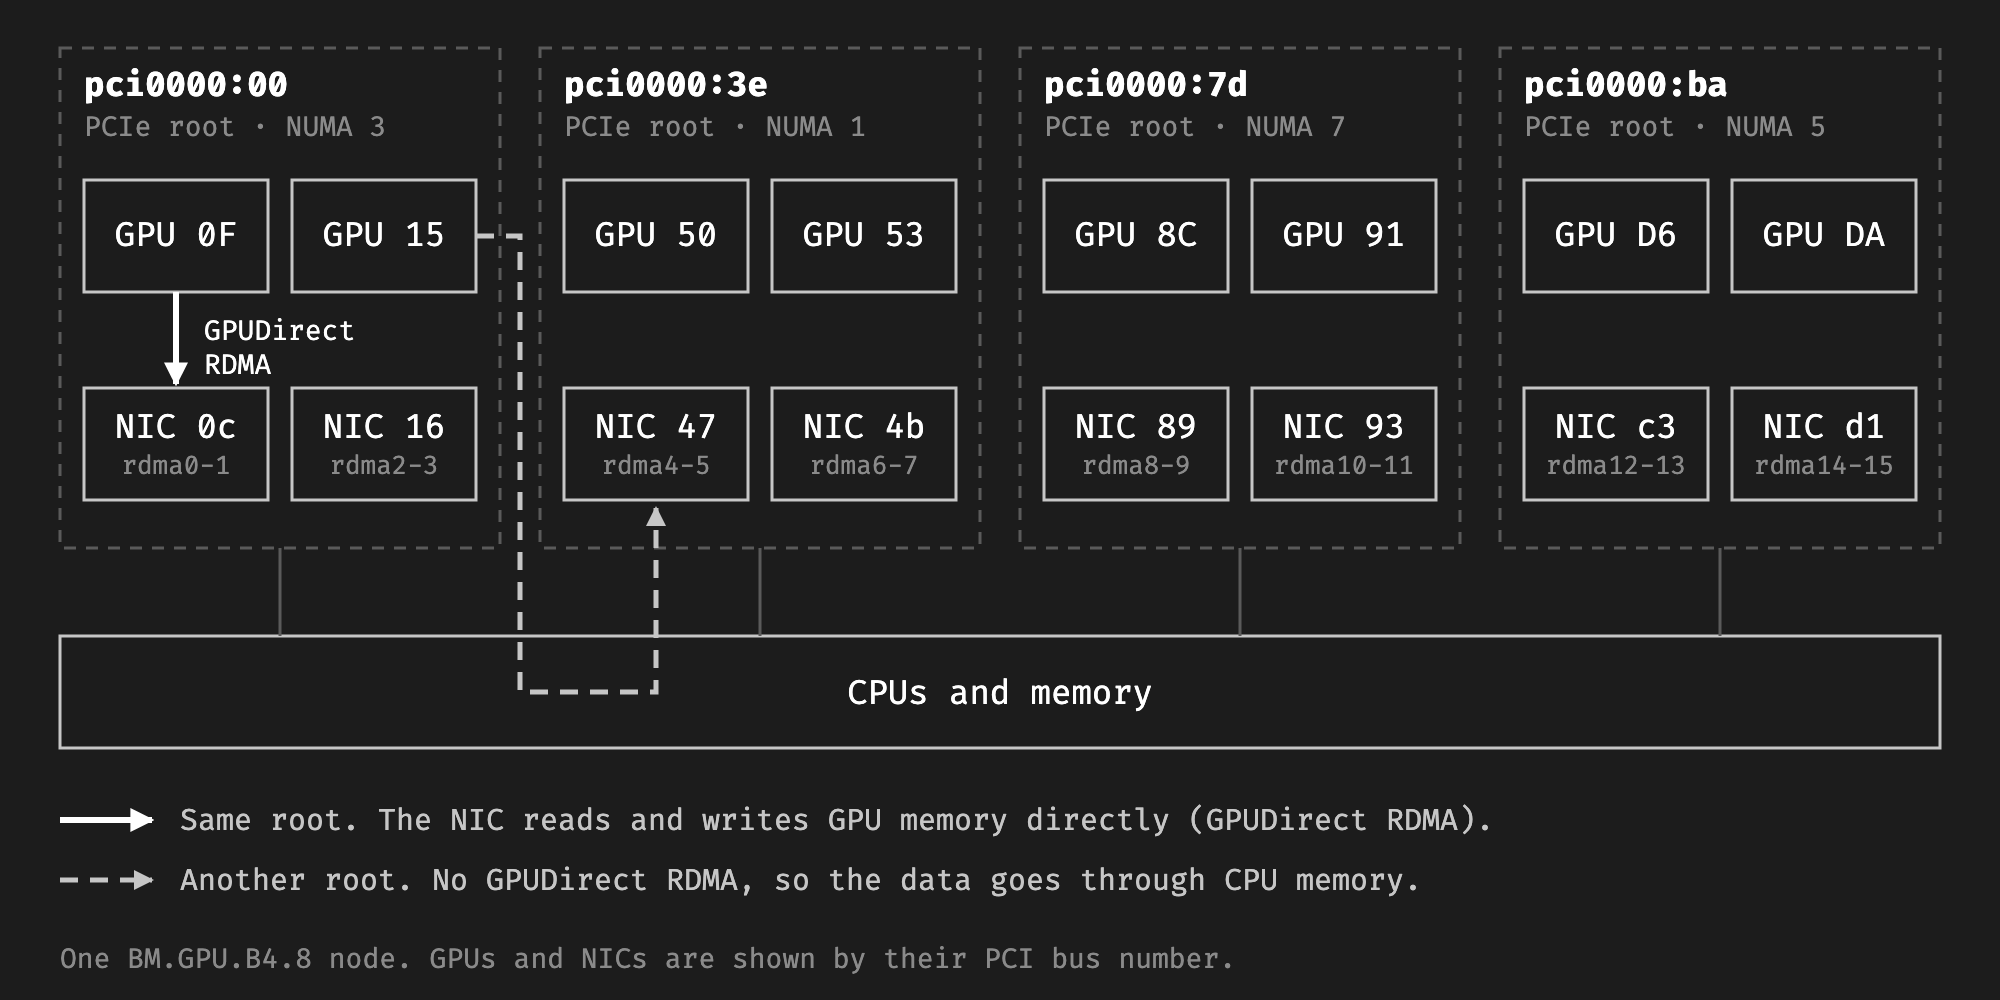
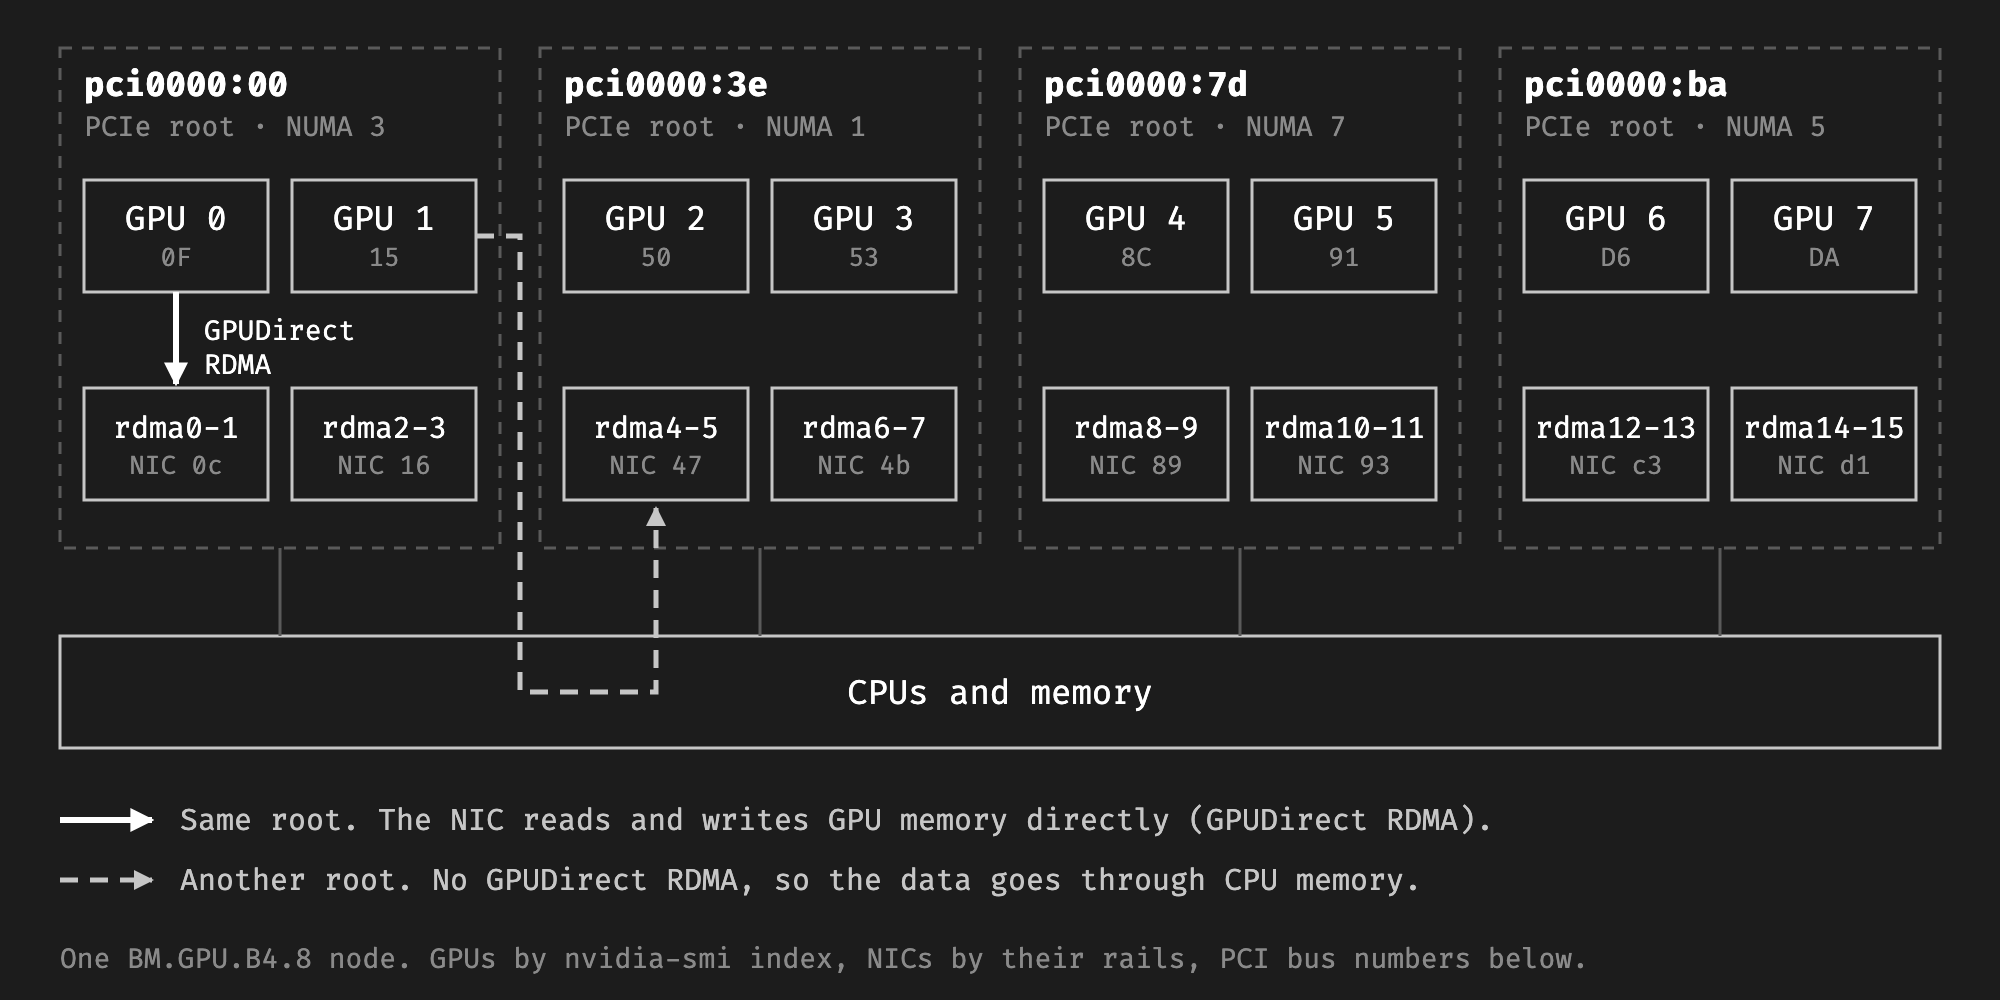
Name GPUs by index and rails in parts 1 and 2

diff --git a/content/posts/getting-rdma-into-kubernetes-pods-part-2-sriov-vfs.md b/content/posts/getting-rdma-into-kubernetes-pods-part-2-sriov-vfs.md
@@ -11,7 +11,7 @@ This series tests four ways to give a Kubernetes pod RDMA for GPU training, on t
 
 With SR-IOV, each port of a NIC is a physical function (PF) that can create virtual functions (VFs). A VF has its own network interface, MAC address and RDMA device. Each pod gets one VF on each rail, and it stays on the pod network. The pod is not privileged. With 1 VF per PF, it got the same bandwidth as `hostNetwork`. NCCL reached 190.55 GB/s.
 
-The hard part is sharing the rails between pods. With 1 VF per PF, a pod that takes all 16 rails takes them for the whole node. Two jobs can split the rails, with 4 GPUs and 8 VFs each per node. Each PCIe root of these nodes has 2 GPUs and 2 NICs. NCCL uses GPUDirect RDMA only when the NIC is close enough to the GPU. But the kubelet got the GPUs and the VFs from two device plugins, and did not match them. So many NCCL channels used a NIC on another root, and their data went through CPU memory. The two jobs got 17.95 and 8.99 GB/s. With 2 VFs per PF and one resource for each rail, every pod got a VF on every rail. Two jobs with 4 GPUs per node then got 96.28 and 96.35 GB/s at the same time. In part 1, a job with 4 GPUs per node got 96.64 GB/s.
+The hard part is sharing the rails between pods. With 1 VF per PF, a pod that takes all 16 rails takes them for the whole node. Two jobs can split the rails, with 4 GPUs and 8 VFs each per node. Each PCIe root of these nodes has 2 GPUs and 2 NICs. NCCL uses GPUDirect RDMA only when the NIC is close enough to the GPU. But the kubelet got the GPUs and the VFs from two device plugins, and did not match them. So many NCCL channels used a NIC on another root, and their data went through CPU memory. The two jobs got 17.95 and 8.99 GB/s. With 2 VFs per PF and one resource for each rail, every pod got a VF on every rail. Two jobs with 4 GPUs per node then got 96.28 and 96.35 GB/s at the same time. In [part 1](/posts/getting-rdma-into-kubernetes-pods-part-1-hostnetwork/), a job with 4 GPUs per node got 96.64 GB/s.
 
 I also tested the exclusive RDMA namespace mode with the RDMA CNI. By default, the RDMA CNI forced traffic class 0 on each VF, and `ib_write_bw` got about half. With `rdmaQoS` in the network, it got the full bandwidth.
 
@@ -27,13 +27,13 @@ These nodes run in the shared RDMA namespace mode of `ib_core`. The current node
 
 ## The setup
 
-The setup and the image are the same as in part 1, on a different pair of nodes:
+The setup and the image are the same as in [part 1](/posts/getting-rdma-into-kubernetes-pods-part-1-hostnetwork/), on a different pair of nodes:
 
 - 2 x BM.GPU.B4.8 on OKE v1.36.4, with CRI-O 1.36.3
 - Each node has 8 A100 GPUs and 16 RoCE rails at 100 Gb/s, all in the IPv4 subnet `10.224.0.0/12`
 - DOCA-OFED 3.5.0 in the shared RDMA namespace mode
 - The NVIDIA GPU Operator 26.3.3
-- The image with NCCL 2.32.3 and perftest 6.28 from part 1
+- The image with NCCL 2.32.3 and perftest 6.28 from [part 1](/posts/getting-rdma-into-kubernetes-pods-part-1-hostnetwork/)
 
 These results are for a single plane network with IPv4 rails, like the one these nodes use. The same logic applies to Oracle Cloud shapes on the multiplanar network, but their configuration is different.
 
@@ -356,7 +356,7 @@ The VF has a RoCE v2 GID for its address at index 3. In shared mode, the pod see
 
 ## The results with 1 VF per PF
 
-I tested each rail with `ib_write_bw`, one rail at a time, as in part 1. `vf-map.sh` prints the PF, the address and the RDMA device of each VF in a pod. `rails-vf.sh` pairs the VFs of the two pods by their PF:
+I tested each rail with `ib_write_bw`, one rail at a time, as in [part 1](/posts/getting-rdma-into-kubernetes-pods-part-1-hostnetwork/). `vf-map.sh` prints the PF, the address and the RDMA device of each VF in a pod. `rails-vf.sh` pairs the VFs of the two pods by their PF:
 
 {{< code language="bash" title="vf-map.sh" open="false" >}}
 #!/bin/bash
@@ -396,7 +396,7 @@ for pf in $pfs; do
 done
 {{< /code >}}
 
-Every rail gave 96.86 to 96.88 Gb/s. In part 1, `hostNetwork` gave 96.86 to 96.88 Gb/s.
+Every rail gave 96.86 to 96.88 Gb/s. In [part 1](/posts/getting-rdma-into-kubernetes-pods-part-1-hostnetwork/), `hostNetwork` gave 96.86 to 96.88 Gb/s.
 
 In the NCCL job, each rank sets `NCCL_IB_HCA` to the RDMA devices of the VFs in its own pod. The worker runs sshd on port 22, which is the default:
 
@@ -494,7 +494,7 @@ This is the result:
 | `hostNetwork`, CRI-O fix (part 1) | 190.36 GB/s |
 | 1 VF per PF | 190.55 GB/s |
 
-A second run with `NCCL_DEBUG=INFO` gave 190.78 GB/s. NCCL merged the two VFs of each NIC into one virtual device. It did the same with the PFs in part 1. All 16 channels used GPUDirect RDMA:
+A second run with `NCCL_DEBUG=INFO` gave 190.78 GB/s. NCCL merged the two VFs of each NIC into one virtual device. It did the same with the PFs in [part 1](/posts/getting-rdma-into-kubernetes-pods-part-1-hostnetwork/). All 16 channels used GPUDirect RDMA:
 
 ```
 NCCL INFO NET/IB : Made virtual device [16] name=mlx5_18+mlx5_19 speed=200000 ndevs=2 rail=-1 plane=16385
@@ -503,24 +503,24 @@ NCCL INFO Channel 00/0 : 1[1] -> 8[0] [receive] via NET/IB/16/GDRDMA/flush=Alway
 
 Each VF is its own RDMA device, so its GID index does not depend on other pods. Every VF in these tests had its GID at index 3.
 
-The port problem of part 1 is gone, and a pod that asked for GPUs got only its own GPUs. The sshd of each worker used port 22. Each worker in the two-job runs below saw only its own 4 GPUs.
+The port problem of [part 1](/posts/getting-rdma-into-kubernetes-pods-part-1-hostnetwork/) is gone, and a pod that asked for GPUs got only its own GPUs. The sshd of each worker used port 22. Each worker in the two-job runs below saw only its own 4 GPUs.
 
-## What 1 VF per PF costs
+## Trade-offs of 1 VF per PF
 
 ### Splitting the rails
 
 With 1 VF per PF, a node has 16 VFs, so only one pod per node can get every rail. For two jobs per node, each job asked for 8 VFs. Both jobs started. Each pod got 8 VF interfaces, on the rails of its VFs. These are the pods on one node:
 
-| Job | GPUs | PFs of its VFs |
+| Job | GPUs | Rails of its VFs |
 |---|---|---|
-| First | `50`, `53`, `8C`, `91` | `0c.1`, `16.0`, `16.1`, `47.1`, `4b.0`, `89.0`, `c3.0`, `d1.0` |
-| Second | `0F`, `15`, `D6`, `DA` | `0c.0`, `47.0`, `4b.1`, `89.1`, `93.0`, `93.1`, `c3.1`, `d1.1` |
+| First | 2, 3, 4, 5 | `rdma1`, `rdma2`, `rdma3`, `rdma5`, `rdma6`, `rdma8`, `rdma12`, `rdma14` |
+| Second | 0, 1, 6, 7 | `rdma0`, `rdma4`, `rdma7`, `rdma9`, `rdma10`, `rdma11`, `rdma13`, `rdma15` |
 
 By PCIe root, the two jobs got these devices:
 
 [![Which GPUs and VFs the two jobs got on one node, by PCIe root](/images/vf-split-rails.png)](/images/vf-split-rails.png)
 
-The VFs did not follow the GPUs. In part 1, NCCL put GPUs `0F`, `15`, `D6` and `DA` on the NICs at `0c`, `16`, `c3` and `d1`. These NICs hold the rails `rdma0` to `rdma3` and `rdma12` to `rdma15`. The other 4 GPUs used `47`, `4b`, `89` and `93`. Here, each job got VFs on NICs on both sides. The two ports of one NIC sometimes went to different jobs. In each job, 4 of the 6 channels had a network connection without GPUDirect RDMA, all on the other node. NCCL uses GPUDirect RDMA only up to a set distance between the NIC and the GPU. `NCCL_NET_GDR_LEVEL` sets that distance, and by default NCCL picks it from the topology. Without GPUDirect RDMA, the data goes through CPU memory.
+The VFs did not follow the GPUs. In [part 1](/posts/getting-rdma-into-kubernetes-pods-part-1-hostnetwork/), NCCL put GPUs 0, 1, 6 and 7 on `rdma0` to `rdma3` and `rdma12` to `rdma15`. The other 4 GPUs used `rdma4` to `rdma11`. Here, each job got VFs on NICs on both sides. The two ports of one NIC sometimes went to different jobs. In each job, 4 of the 6 channels had a network connection without GPUDirect RDMA, all on the other node. NCCL uses GPUDirect RDMA only up to a set distance between the NIC and the GPU. `NCCL_NET_GDR_LEVEL` sets that distance, and by default NCCL picks it from the topology. Without GPUDirect RDMA, the data goes through CPU memory.
 
 [![The 4 PCIe roots of one BM.GPU.B4.8 node, each with 2 GPUs and 2 NICs, and the two data paths between a GPU and a NIC](/images/gpu-nic-topology.png)](/images/gpu-nic-topology.png)
 
@@ -531,7 +531,7 @@ The bandwidth dropped:
 | First | 17.95 GB/s | 17.93 GB/s |
 | Second | 8.99 GB/s | 25.63 GB/s |
 
-The second job ran longer, and its in-place half ran after the first job had finished. With the CRI-O fix of part 1, two jobs like these got 96.40 and 96.36 GB/s at the same time.
+The second job ran longer, and its in-place half ran after the first job had finished. With the CRI-O fix of [part 1](/posts/getting-rdma-into-kubernetes-pods-part-1-hostnetwork/), two jobs like these got 96.40 and 96.36 GB/s at the same time.
 
 ## Two VFs per PF
 
@@ -584,10 +584,10 @@ I started two pods per node with 16 VFs each. The kubelet does not know which ra
 
 | Pod | Rails with 2 VFs | Rails with no VF |
 |---|---|---|
-| 1 | 4 | `0c.0`, `16.0`, `16.1`, `4b.0` |
-| 2 | 4 | `47.1`, `93.0`, `93.1`, `c3.0` |
-| 3 | 5 | `16.1`, `47.1`, `4b.1`, `89.1`, `c3.0` |
-| 4 | 5 | `0c.1`, `47.0`, `4b.0`, `93.0`, `93.1` |
+| 1 | 4 | `rdma0`, `rdma2`, `rdma3`, `rdma6` |
+| 2 | 4 | `rdma5`, `rdma10`, `rdma11`, `rdma12` |
+| 3 | 5 | `rdma3`, `rdma5`, `rdma7`, `rdma9`, `rdma12` |
+| 4 | 5 | `rdma1`, `rdma4`, `rdma6`, `rdma10`, `rdma11` |
 
 ### One resource for each rail
 
@@ -1510,11 +1510,11 @@ Then I ran the two jobs with 4 GPUs per node at the same time:
 | First | 96.28 GB/s | 96.32 GB/s |
 | Second | 96.35 GB/s | 96.37 GB/s |
 
-Each worker used the 4 NICs next to its GPUs. The worker with GPUs `8C`, `91`, `D6` and `DA` used the NICs at `89`, `93`, `c3` and `d1`. The worker with `0F`, `15`, `50` and `53` used `0c`, `16`, `47` and `4b`. All 8 channels of each job used GPUDirect RDMA. The results match the CRI-O fix of part 1. The Topology Manager of the kubelet stayed at its default policy, `none`.
+Each worker used the 4 NICs next to its GPUs. The worker with GPUs 4 to 7 used the NICs of `rdma8` to `rdma15`. The worker with GPUs 0 to 3 used `rdma0` to `rdma7`. All 8 channels of each job used GPUDirect RDMA. The results match the CRI-O fix of [part 1](/posts/getting-rdma-into-kubernetes-pods-part-1-hostnetwork/). The Topology Manager of the kubelet stayed at its default policy, `none`.
 
 A job with 8 GPUs per node on the same setup got 190.04 GB/s.
 
-## What 2 VFs per PF cost
+## Trade-offs of 2 VFs per PF
 
 ### Two pods share each port
 
@@ -1542,10 +1542,10 @@ echo "pair b: $(awk '/^ 65536/ {print $4" Gb/s"}' /tmp/share-b.log)"
 cat /tmp/share-a.log /tmp/share-b.log >&2
 {{< /code >}}
 
-| PF | One pair alone | Two pairs at the same time |
+| Rail | One pair alone | Two pairs at the same time |
 |---|---|---|
-| `0c.0` (`rdma0`) | 96.88 Gb/s | 48.96 and 49.00 Gb/s |
-| `89.0` (`rdma8`) | 96.87 Gb/s | 49.02 and 48.99 Gb/s |
+| `rdma0` | 96.88 Gb/s | 48.96 and 49.00 Gb/s |
+| `rdma8` | 96.87 Gb/s | 49.02 and 48.99 Gb/s |
 
 In the NCCL test, the two jobs used different NICs on each node, so they did not share a port. Two jobs that use the same NICs split the bandwidth of each port.
 
@@ -1657,7 +1657,7 @@ I ran both setups on the same day, with one pod of 16 VFs on each node:
 | A network with the RDMA CNI | The pod stays in `ContainerCreating` | Works |
 | `ib_write_bw` on each rail | 96.87 to 96.88 Gb/s | 43.20 to 59.45 Gb/s |
 
-So the exclusive mode isolates better. A pod sees no RDMA device of the node or of another pod. In the shared mode, the pod sees them all in sysfs. It has device files only for its own VFs. The `privileged` `hostNetwork` pod of part 1 is different. It has every device file, so it could open the VF of another pod.
+So the exclusive mode isolates better. A pod sees no RDMA device of the node or of another pod. In the shared mode, the pod sees them all in sysfs. It has device files only for its own VFs. The `privileged` `hostNetwork` pod of [part 1](/posts/getting-rdma-into-kubernetes-pods-part-1-hostnetwork/) is different. It has every device file, so it could open the VF of another pod.
 
 ### The traffic class in the exclusive mode
 
@@ -1732,7 +1732,7 @@ spec:
     }
 {{< /code >}}
 
-I ran this on the nodes of part 1, with the same Network Operator. Both modes ran on the same day. Without `rdmaQoS`, the rails gave 50.60 to 59.02 Gb/s in two runs. With it, every VF in the pods read `Global tclass=41`. Every rail gave 96.78 to 96.88 Gb/s. In the shared mode, the rails gave 96.85 to 96.88 Gb/s. These are the counters of one rail in the exclusive mode, as above:
+I ran this on the nodes of [part 1](/posts/getting-rdma-into-kubernetes-pods-part-1-hostnetwork/), with the same Network Operator. Both modes ran on the same day. Without `rdmaQoS`, the rails gave 50.60 to 59.02 Gb/s in two runs. With it, every VF in the pods read `Global tclass=41`. Every rail gave 96.78 to 96.88 Gb/s. In the shared mode, the rails gave 96.85 to 96.88 Gb/s. These are the counters of one rail in the exclusive mode, as above:
 
 | Sender | Traffic class file | Packets on priority 0 | Packets on priority 1 | Result |
 |---|---|---|---|---|
@@ -1744,7 +1744,7 @@ The README of the RDMA CNI shows `rdmaQoS` under `args.cni`. I tried that too, a
 
 ### NCCL in both modes
 
-The NCCL job sets 4 queue pairs for each connection. These are the results at 8 GiB, out of place and in place, from the same day on the nodes of part 1:
+The NCCL job sets 4 queue pairs for each connection. These are the results at 8 GiB, out of place and in place. All of them ran on one day, on the nodes of [part 1](/posts/getting-rdma-into-kubernetes-pods-part-1-hostnetwork/):
 
 | Setup | `busbw` at 8 GiB | Priority of the packets |
 |---|---|---|

diff --git a/content/posts/getting-rdma-into-kubernetes-pods-part-1-hostnetwork.md b/content/posts/getting-rdma-into-kubernetes-pods-part-1-hostnetwork.md
@@ -315,7 +315,7 @@ The launcher failed on every attempt, and the job ended as `Failed`. NCCL could 
 NCCL WARN Error while creating shared memory segment /dev/shm/nccl-4ilNyk (size 68420264), error: No space left on device (28)
 ```
 
-## What it costs
+## The trade-offs
 
 ### Ports
 
@@ -483,8 +483,8 @@ The plain pods are the same, without `privileged`.
 |---|---|---|
 | `gpu4-privileged-1` | 8 | All 8 |
 | `gpu4-privileged-2` | 8 | All 8 |
-| `gpu4-plain-1` | 4 | `0F`, `15`, `D6`, `DA` |
-| `gpu4-plain-2` | 4 | `50`, `53`, `8C`, `91` |
+| `gpu4-plain-1` | 4 | 0, 1, 6, 7 |
+| `gpu4-plain-2` | 4 | 2, 3, 4, 5 |
 
 The GPU Operator gives a pod its GPUs through CDI. It adds only the device files of those GPUs to the container. `privileged` adds every device of the node on top of that, and CUDA uses every GPU it can open. So CUDA device 0 in a privileged pod is the first GPU of the node. It does not matter which GPUs the device plugin gave the pod.
 
@@ -616,13 +616,13 @@ spec:
 
 Then I ran the two jobs with 4 GPUs per node again. They had the same changes and ports 2222 and 2223. This time they ran at the same time, and both NCCL runs completed:
 
-| Job | GPUs and NICs on node 1 | GPUs and NICs on node 2 | `busbw` at 8 GiB |
+| Job | GPUs and rails on node 1 | GPUs and rails on node 2 | `busbw` at 8 GiB |
 |---|---|---|---|
 | 8 GPUs, `privileged` | All 8 GPUs, all 16 rails | All 8 GPUs, all 16 rails | 190.54 GB/s |
 | 8 GPUs, fix | All 8 GPUs, all 16 rails | All 8 GPUs, all 16 rails | 190.36 GB/s |
-| 4 GPUs alone, `privileged` | `0F`, `15`, `50`, `53` on `rdma0` to `rdma7` | `0F`, `15`, `50`, `53` on `rdma0` to `rdma7` | 96.64 GB/s |
-| 4 GPUs, fix, first job | `0F`, `15`, `D6`, `DA` on `rdma0` to `rdma3` and `rdma12` to `rdma15` | `0F`, `15`, `50`, `53` on `rdma0` to `rdma7` | 96.40 GB/s |
-| 4 GPUs, fix, second job | `50`, `53`, `8C`, `91` on `rdma4` to `rdma11` | `8C`, `91`, `D6`, `DA` on `rdma8` to `rdma15` | 96.36 GB/s |
+| 4 GPUs alone, `privileged` | 0, 1, 2, 3 on `rdma0` to `rdma7` | 0, 1, 2, 3 on `rdma0` to `rdma7` | 96.64 GB/s |
+| 4 GPUs, fix, first job | 0, 1, 6, 7 on `rdma0` to `rdma3` and `rdma12` to `rdma15` | 0, 1, 2, 3 on `rdma0` to `rdma7` | 96.40 GB/s |
+| 4 GPUs, fix, second job | 2, 3, 4, 5 on `rdma4` to `rdma11` | 4, 5, 6, 7 on `rdma8` to `rdma15` | 96.36 GB/s |
 
 Each job got its own 4 GPUs, and NCCL picked the NICs closest to them. So the two jobs also used different NICs. The device plugin picked a different set of GPUs for a job on each node. The fix did not cost bandwidth.
 
